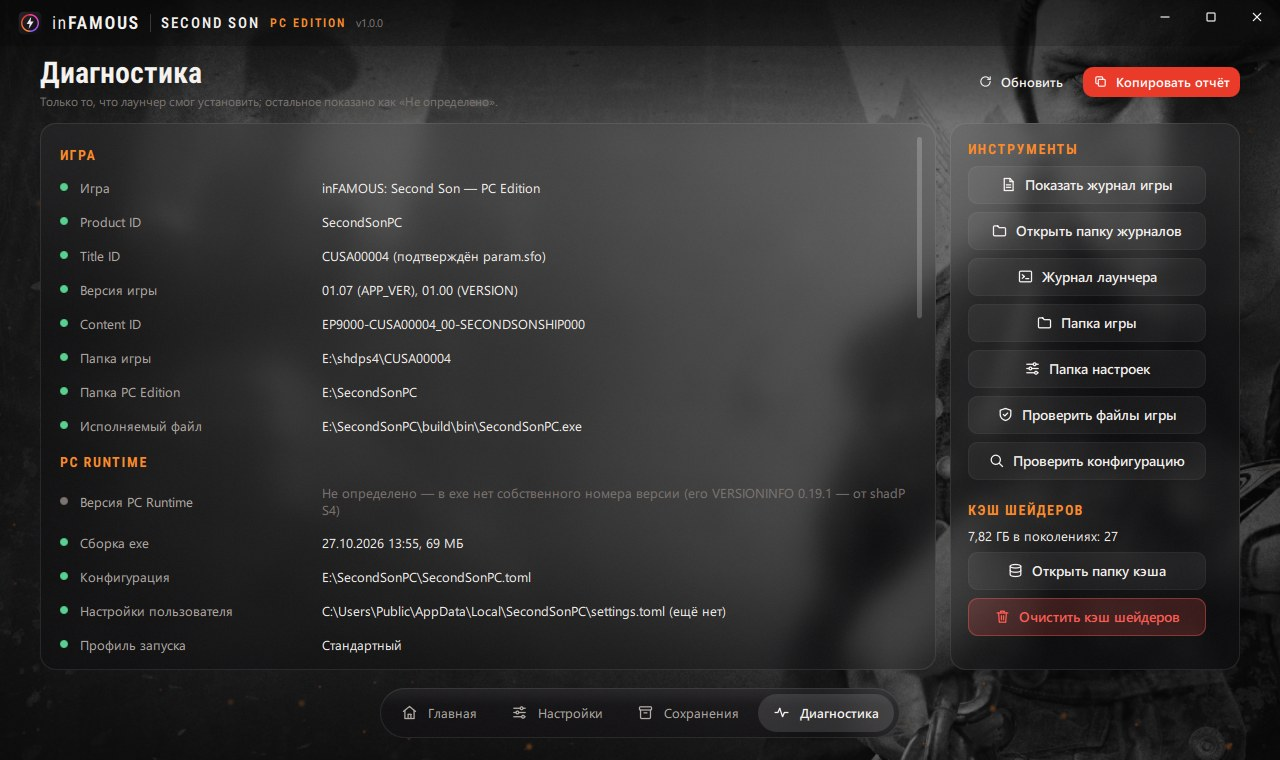
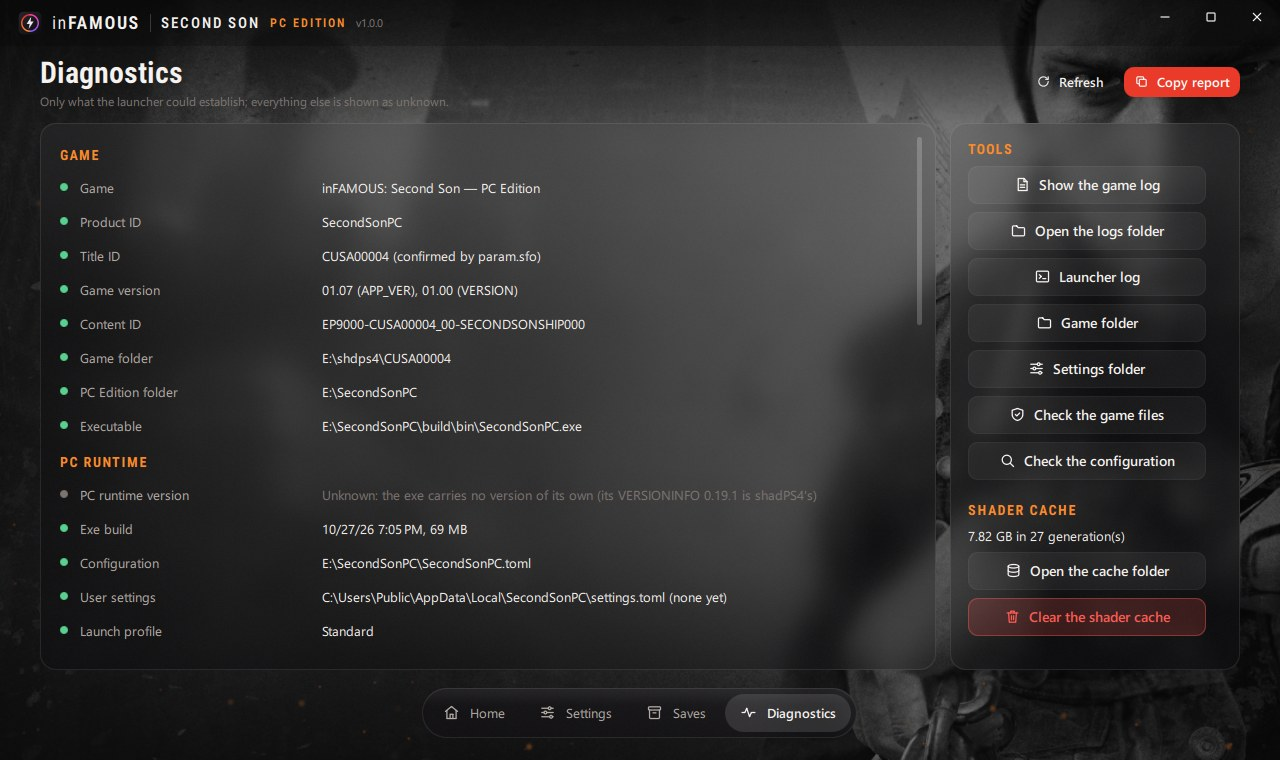
Launcher in English when Windows is not Russian; README: English screenshots

diff --git a/pc-launcher/src/app/Application.cpp b/pc-launcher/src/app/Application.cpp
@@ -34,7 +34,10 @@ QSettings::Format IniFormat() {
 Application::Application(const Options& options, QObject* parent)
     : QObject(parent), options_(options), detector_(AllProfiles()),
       prefs_(Log::Dir() + QStringLiteral("/launcher.ini"), IniFormat()) {
-    language_ = prefs_.value(QStringLiteral("ui/language"), QStringLiteral("ru")).toString() == QLatin1String("en") ? QStringLiteral("en") : QStringLiteral("ru");
+    // until the player picks one: Windows' display language, Russian or else English
+    const QStringList ui = QLocale::system().uiLanguages();
+    const QString systemLanguage = !ui.isEmpty() && ui.first().startsWith(QLatin1String("ru")) ? QStringLiteral("ru") : QStringLiteral("en");
+    language_ = prefs_.value(QStringLiteral("ui/language"), systemLanguage).toString() == QLatin1String("en") ? QStringLiteral("en") : QStringLiteral("ru");
     design_ = prefs_.value(QStringLiteral("ui/concept"), QStringLiteral("cinematic")).toString();
     if (design_ != QLatin1String("neon") && design_ != QLatin1String("desktop")) design_ = QStringLiteral("cinematic");
     reduced_ = prefs_.value(QStringLiteral("ui/reducedEffects"), false).toBool();

diff --git a/README.md b/README.md
@@ -88,7 +88,7 @@ The standalone add-on **inFAMOUS: First Light** (CUSA00897) runs on this same ru
    | `SecondSonPC-README.txt` | these steps in short |
 
 3. **The Visual C++ runtime.** Install the [Microsoft Visual C++ 2015–2022 Redistributable (x64)](https://aka.ms/vs/17/release/vc_redist.x64.exe) if it is not installed yet.
-4. **Start `SecondSonPC.exe`** and press **Играть** (Play) in the launcher. `play.cmd` still works and starts the game at once with the standard profile.
+4. **Start `SecondSonPC.exe`** and press **Play** in the launcher. `play.cmd` still works and starts the game at once with the standard profile.
    - On the first start a console window prepares the game's shaders: they are compiled before the game starts. This happens once: on the development PC (6 cores / 12 threads) it took 5.5 minutes from an empty cache, about 13 400 pipelines. Later starts skip it in under two seconds.
    - It runs again only after a driver or SecondSonPC update.
 5. **PC settings:** in the launcher, or in the game: **Esc (Options) → Settings → "Additional settings"**.
@@ -473,7 +473,7 @@ These are new and not yet played through from start to end: if a Paper Trail or 
 
 ## Launcher
 
-`SecondSonPC.exe` started without arguments opens the inFAMOUS PC Launcher from `Launcher\`; **Играть** (Play) starts the game with what is chosen there. The same launcher serves [First Light](https://github.com/kam0n4ik/inFAMOUS-First-Light-PC-Edition): it finds the game from the folder it stands in and takes that game's art and colours. It is in Russian for now.
+`SecondSonPC.exe` started without arguments opens the inFAMOUS PC Launcher from `Launcher\`; **Play** starts the game with what is chosen there. The same launcher serves [First Light](https://github.com/kam0n4ik/inFAMOUS-First-Light-PC-Edition): it finds the game from the folder it stands in and takes that game's art and colours. It is in English and Russian: it follows Windows' display language, and Settings → Launcher switches it.
 
 <p align="center">
   <img src=".github/readme/launcher-home.jpg" alt="The launcher's home page: Play, the launch profile, the shader cache" width="880">
@@ -623,7 +623,7 @@ Vulkan 1.3 driver
 - **GPU loss once with early submission.** In one of three 30-minute runs with `SSPC_R11_EARLY_SUBMIT=256` the driver reset the GPU after 18.5 minutes (`VK_ERROR_DEVICE_LOST`). Its exact repeat, another run and a run without it were clean, and the cause is not known. Such resets also happened on that PC before R11. If it happens to you, turn off "Early batch submission (R11)" on the Experiments page: that is R10's behaviour.
 - **Not tested in R11:** flying, cut-scenes, vertical sync switches together with DLSS / FSR frame generation, gamepad navigation of the new rows, two monitors.
 - **R12 is still under its final check.** The experimental switches above are off by default; their comparison with R11 over every scene is running. "Rain shadows: Off" has not yet been checked frame by frame. Not tested in R12: flying, cut-scenes, light from Delsin's powers (none on the routes), harbour and village with the particle sort.
-- **The launcher and the new graphics settings** are new: the launcher is in Russian only, and the FPS cost of shadow quality, texture quality, anisotropic filtering and anti-aliasing is not measured yet. If something looks wrong, set them back to *as in the game*.
+- **The launcher and the new graphics settings** are new: the older built-in launcher (`--launcher`) is in Russian only, and the FPS cost of shadow quality, texture quality, anisotropic filtering and anti-aliasing is not measured yet. If something looks wrong, set them back to *as in the game*.
 - **Online missions, add-ons and trophies are new** and not yet played through: the Paper Trail missions, the Cole's Legacy missions and each trophy's notice have been built, not tested in the game from start to end. The trophy grades (bronze, silver, gold) are not shown: they are in the encrypted trophy texts.
 - There is no full-campaign compatibility guarantee.
 
@@ -667,7 +667,7 @@ Vulkan 1.3 driver
 - [x] Motion blur on / off and its strength (R11)
 - [x] Reflection quality and rain shadows in Graphics (R12)
 - [x] A launcher before the game; shadow quality, texture quality, anisotropic filtering and anti-aliasing in Graphics
-- [ ] The launcher in English
+- [x] The launcher in English (the inFAMOUS PC Launcher)
 - [x] Button prompts for keyboard/mouse, Xbox, PlayStation
 - [x] Native mouse camera (no stick emulation)
 - [x] Any resolution and aspect ratio (4:3 to 32:9, Hor+, HUD, FOV, movies 16:9)
